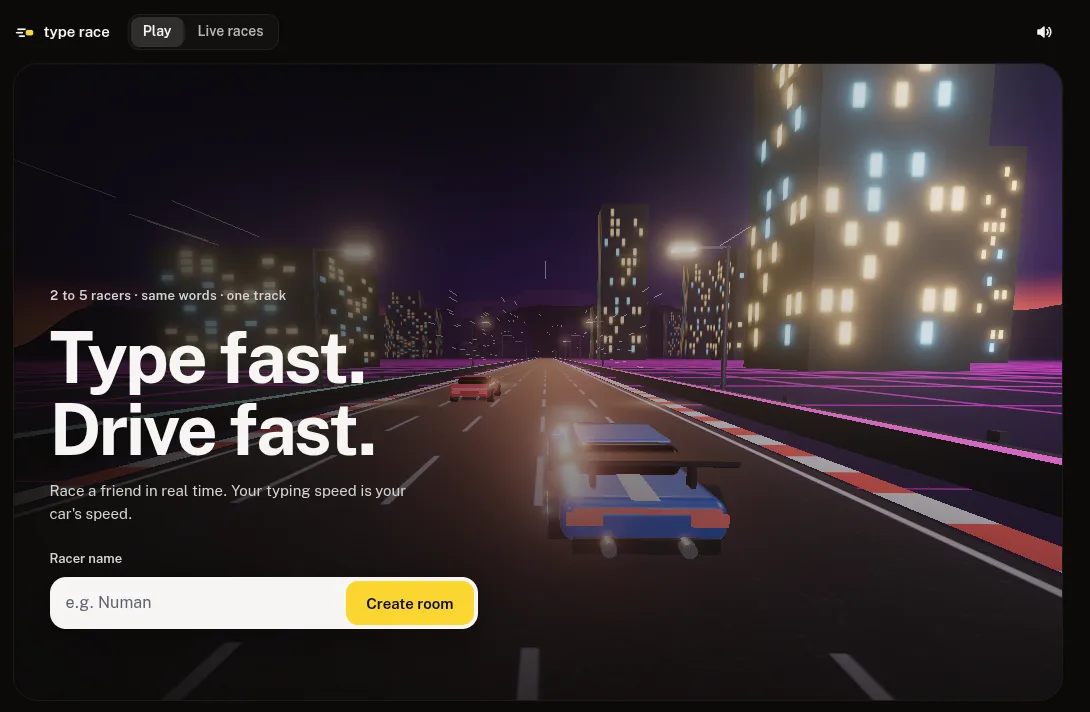
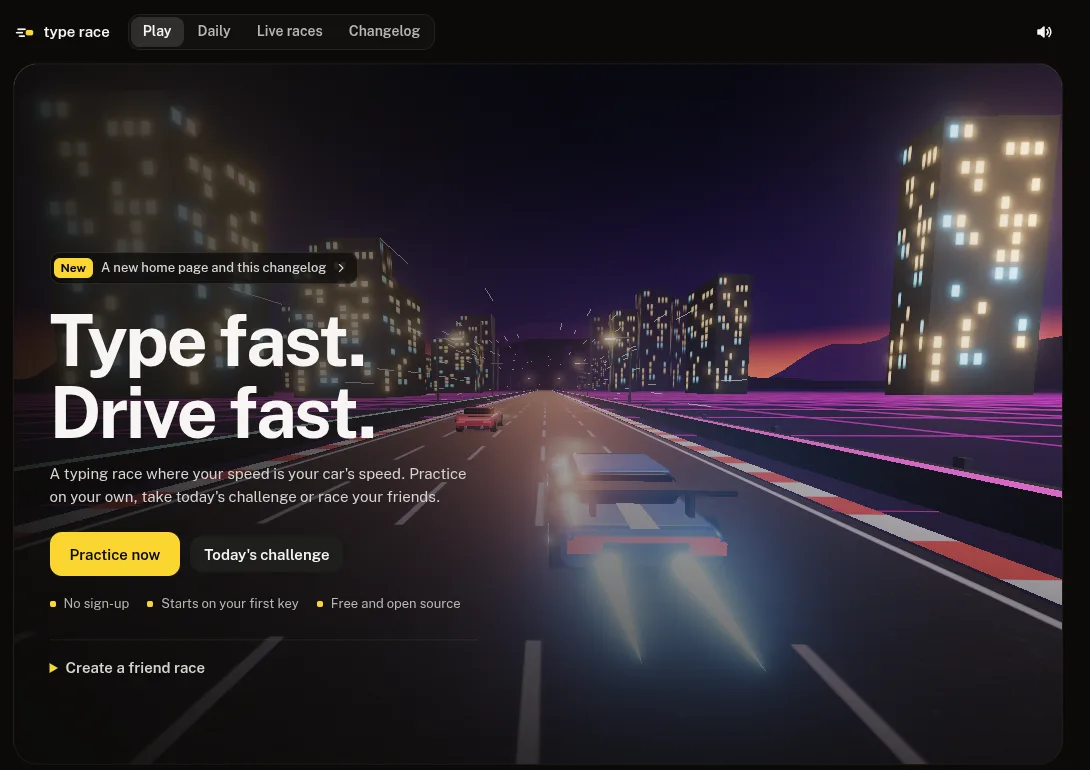
Show the changelog and the new home page in the README

diff --git a/README.md b/README.md
@@ -111,7 +111,7 @@ Render checks `/api/health`, which verifies the database before a deploy receive
 ```
 src/
   shared/     game.ts (speed model, typing rules, places), words.ts, progress.ts (levels, XP, cars)
-  server/     server.ts (rooms, race loop, API), db.ts, meta.ts (link previews, robots, sitemap), share.ts
+  server/     server.ts (rooms, race loop, API), db.ts, meta.ts (link previews, robots, sitemap), changelog.ts, share.ts
   client/     index.html, style.css, client.ts (screens and race flow), scene.ts (WebGL track, cars, garage),
               hud.ts, live.ts, garage.ts, leaderboard.ts, hero.ts, profile.ts, sound.ts, ui.ts
 public/og/    link preview images
@@ -134,6 +134,10 @@ neon checkout dev --create
 bun run check
 bun test
 ```
+
+## Changelog
+
+Every update is written up in [CHANGELOG.md](CHANGELOG.md), which the site also shows at `/changelog`.
 
 ## Contributing
 
